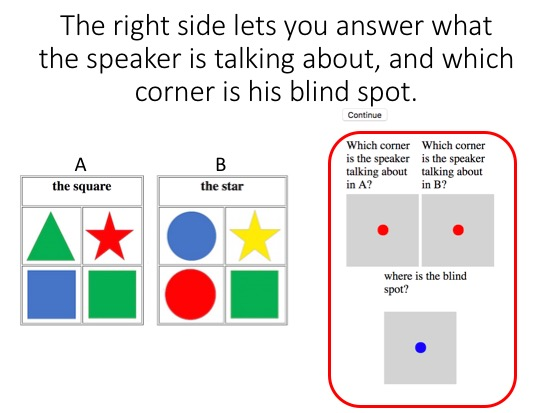
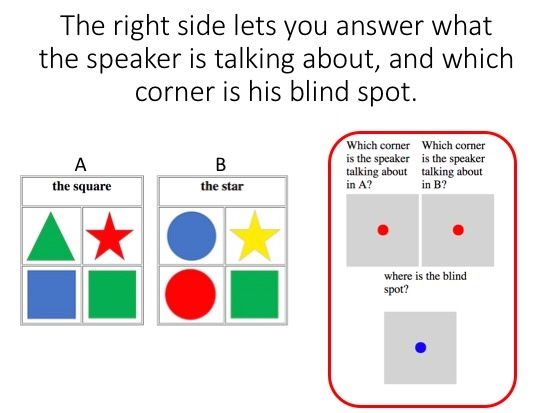
made instructions clearer

diff --git a/experiment.js b/experiment.js
@@ -279,6 +279,7 @@ function wirePads(root) {
        computer with a mouse or trackpad. Use the buttons or the arrow keys to move between pages.</p>`,
     ],
     show_clickable_nav: true,
+    button_label_next: "Continue",
     data: { task: "instructions" },
     on_finish: () => setProgress(0.05),
   };
@@ -287,6 +288,7 @@ function wirePads(root) {
     type: jsPsychInstructions,
     pages: tutorialImages.map((src) => `<img class="tutorial-slide" src="${src}" alt="Tutorial slide">`),
     show_clickable_nav: true,
+    button_label_next: "Continue",
     data: { task: "tutorial" },
   };
 
@@ -409,6 +411,7 @@ function wirePads(root) {
        the blind spot is. Press <strong>Continue</strong> when you are done with a trial.</p>`,
     ],
     show_clickable_nav: true,
+    button_label_next: "Continue",
     data: { task: "instructions" },
   };
   const trials = {
